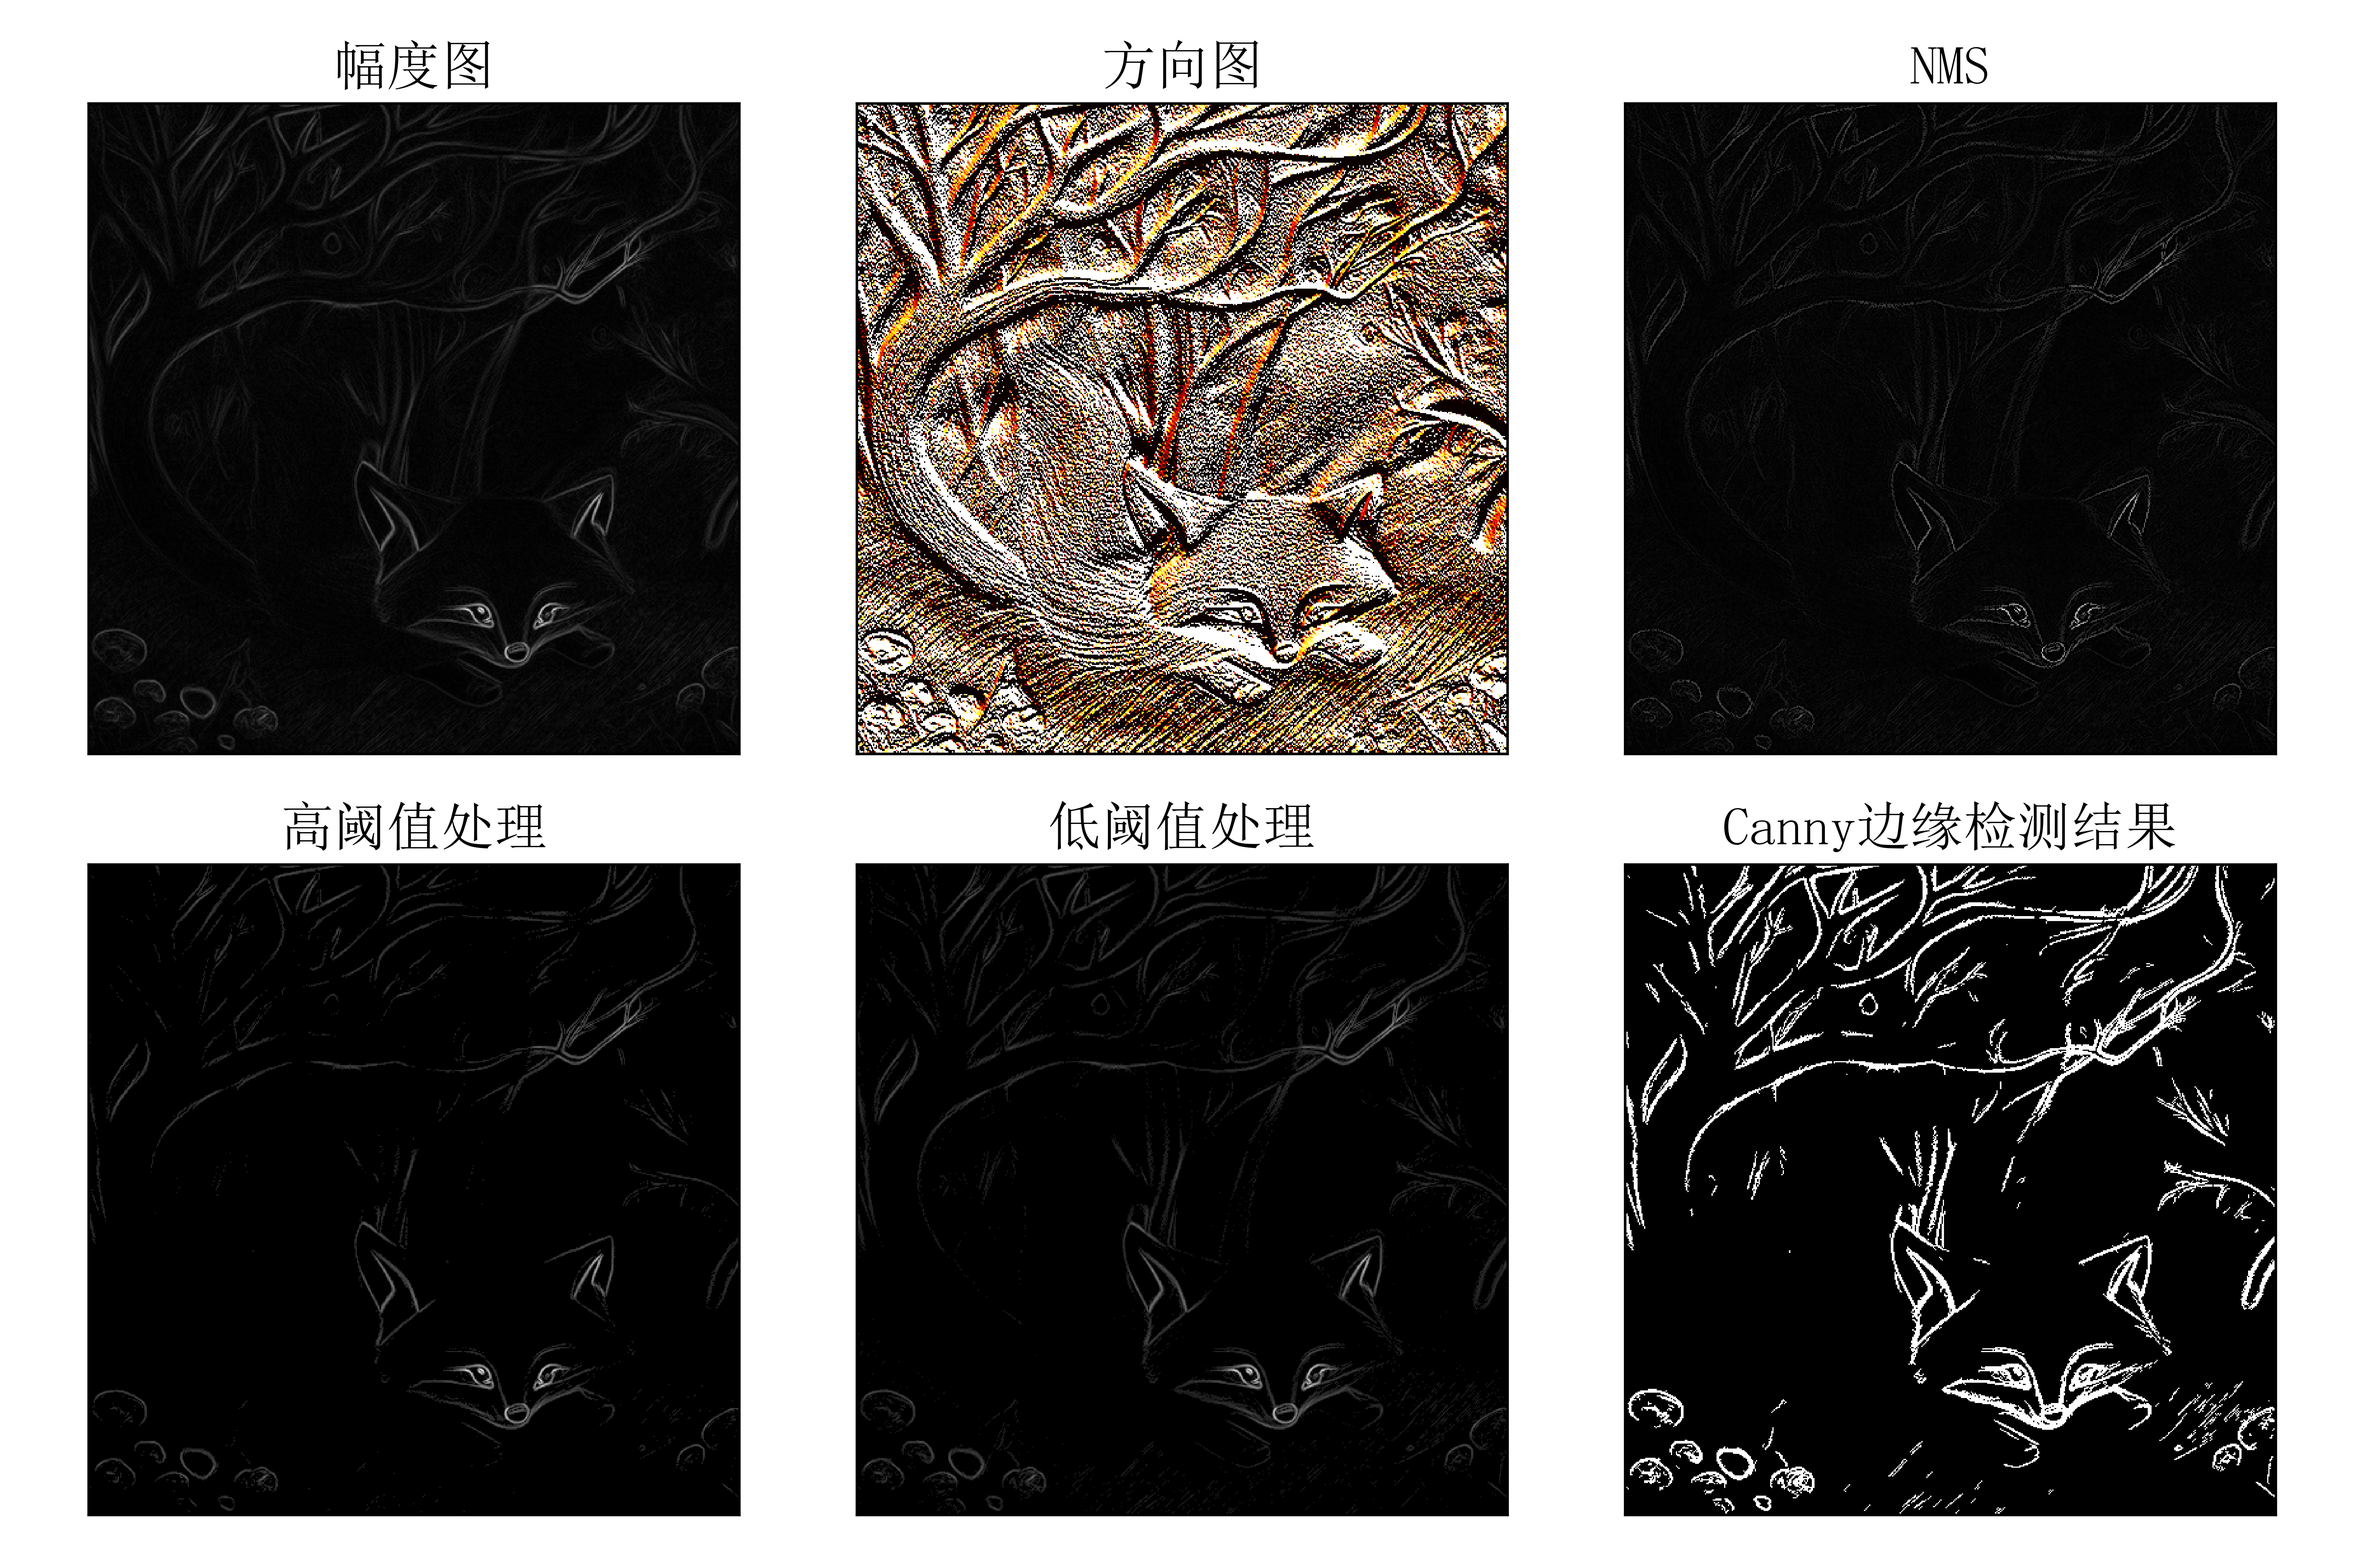
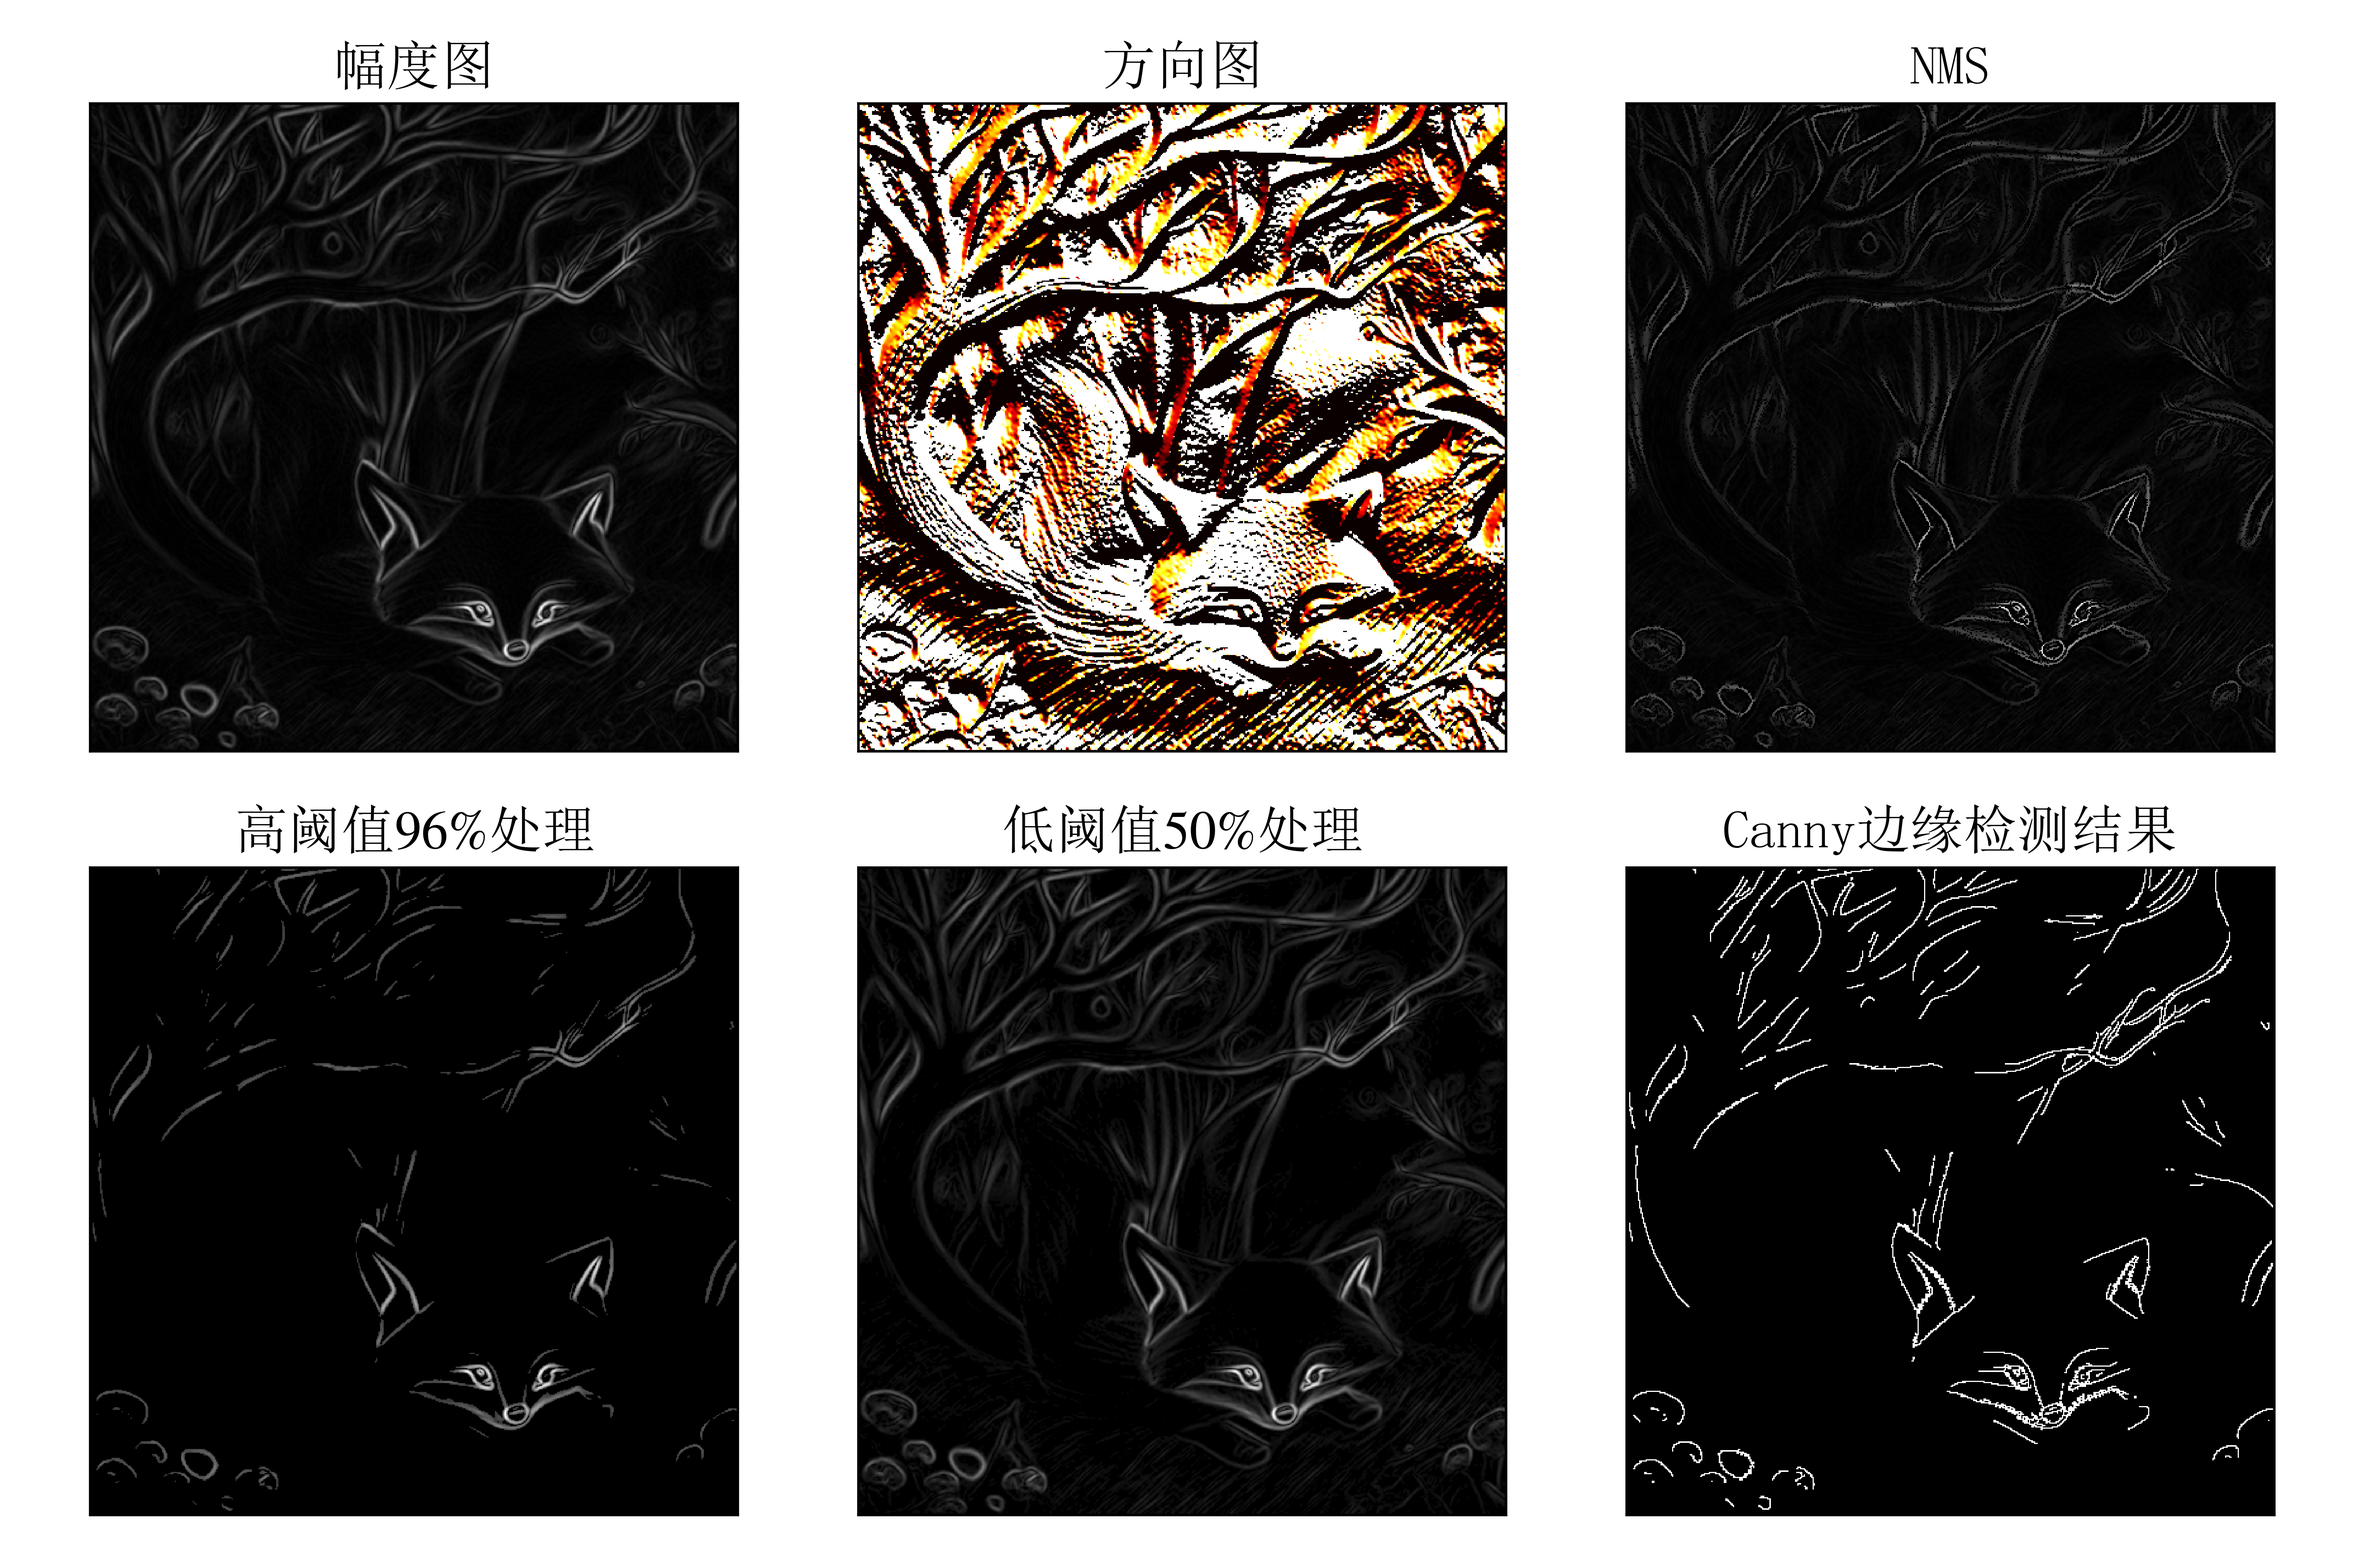
update hw2

diff --git a/code/hw2/test.py b/code/hw2/test.py
@@ -6,23 +6,20 @@
 @Time    : 2022/10/5 22:05
 """
 
+import cv2
 import numpy as np
-import matplotlib.pyplot as plt
-n = 512
-im1=np.random.random((n,n,3))
-im2=np.random.random((n//2,n//2,3))
-im3=np.random.random((50,40,3))
-im4=np.random.random((60,50,3))
+from matplotlib import pyplot as plt
+from queue import PriorityQueue
 
-fig = plt.figure(figsize=(3.41*2, 3.41))
-rect1 = [0.01, 0.1, 30/60, 0.8]
-rect2 = [40/60, 0.1, 15/60, 0.8]
-ax = plt.axes(rect1)
-print(type(ax))
-print(type(plt.gca()))
-plt.imshow(im1)
-plt.axis('off')
-plt.axes(rect2)
-plt.imshow(im2)
-plt.axis('off')
+img = cv2.imread('../figure/fox1.png')
+edges = cv2.Canny(img,100,200)
+edges2 = cv2.Canny(img,50,200)
+plt.figure(figsize=(15, 5))
+plt.subplot(131),plt.imshow(img,cmap = 'gray')
+plt.title('Original Image'), plt.xticks([]), plt.yticks([])
+plt.subplot(132),plt.imshow(edges,cmap = 'gray')
+plt.title('Edge Image1'), plt.xticks([]), plt.yticks([])
+plt.subplot(133),plt.imshow(edges2,cmap = 'gray')
+plt.title('Edge Image2'), plt.xticks([]), plt.yticks([])
+plt.savefig('cv_edge.png', dpi=600)
 plt.show()

diff --git a/code/util/util.py b/code/util/util.py
@@ -15,11 +15,13 @@
         mode=2: 边界复制
         mode=3: 镜像边界
     cov(img, filter, mode=0): 卷积函数，原始图像img, 卷积核filter，mode=0等宽卷积（其他卷积还没用到）
+    count_round(img, x, mode=8): 统计img图片中x坐标周围一圈非零元素个数，mode=4,8,9表示统计周围的个数
 """
 import numpy as np
 import matplotlib.pyplot as plt
 from PIL import Image
 from tqdm import tqdm
+import util.const as const
 
 def img_open(fname):
     img = np.array(Image.open(fname))
@@ -154,3 +156,14 @@ def conv1(img, filter, mode=0):
                         output[i][j][k] += img[i+u][j+v][k] * filter[u][v][0]
     return np.array(output)
 
+def count_round(img, x, mode=8):
+    # mode=4,8,9 表示统计周围一圈点的个数
+    n, m, c = img.shape
+    count = 0
+    for dir in const.direction[mode]:
+        tx = x + dir
+        if tx[0] < 0 or tx[0] >= n or tx[1] < 0 or tx[1] >= m:
+            continue
+        if img[tx[0], tx[1]] != np.zeros(c):
+            count += 1
+    return count

diff --git a/code/util/const.py b/code/util/const.py
@@ -1,0 +1,19 @@
+# -*- coding: utf-8 -*-
+
+"""
+@File    : const.py
+@Author  : wtyyy
+@Time    : 2022/10/13 12:33
+@Const:
+"""
+import numpy as np
+
+dx = [-1, -1, -1, 0, 0, 0, 1, 1, 1]
+dy = [-1, 0, 1, -1, 0, 1, -1, 0, 1]
+direction = [None for _ in range(10)]
+direction[9] = [np.array([dx[i], dy[i]]) for i in range(9)]
+direction[4] = [direction[9][i] for i in range(1, 9, 2)]
+direction[8] = []
+for i in range(9):
+    if i != 5:
+        direction[8].append(direction[9][i])
